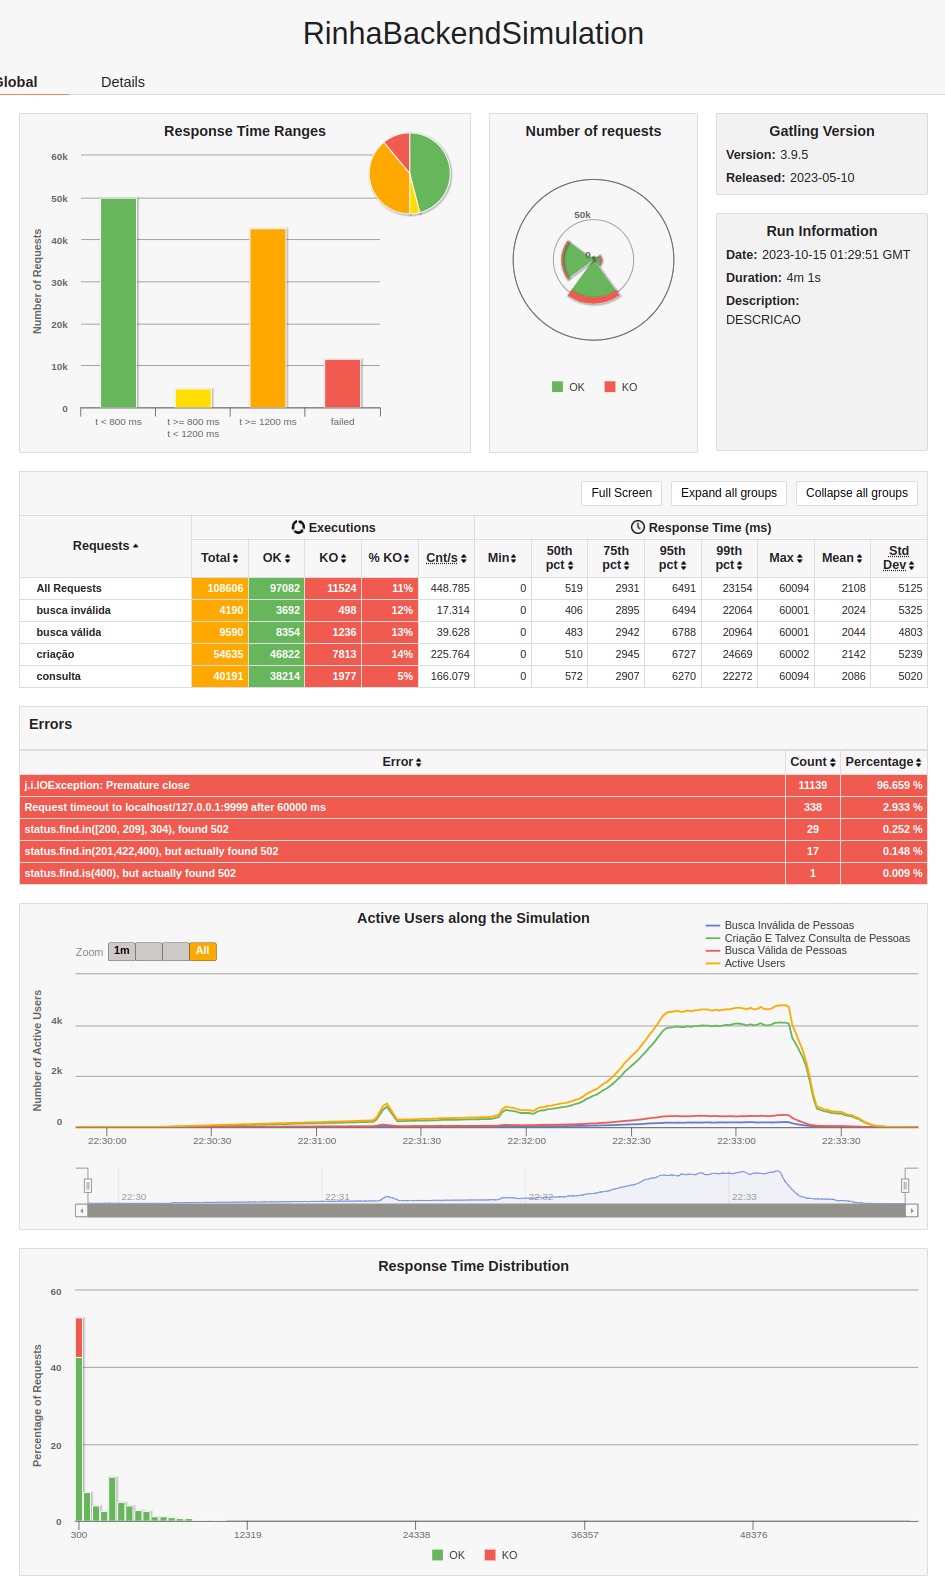
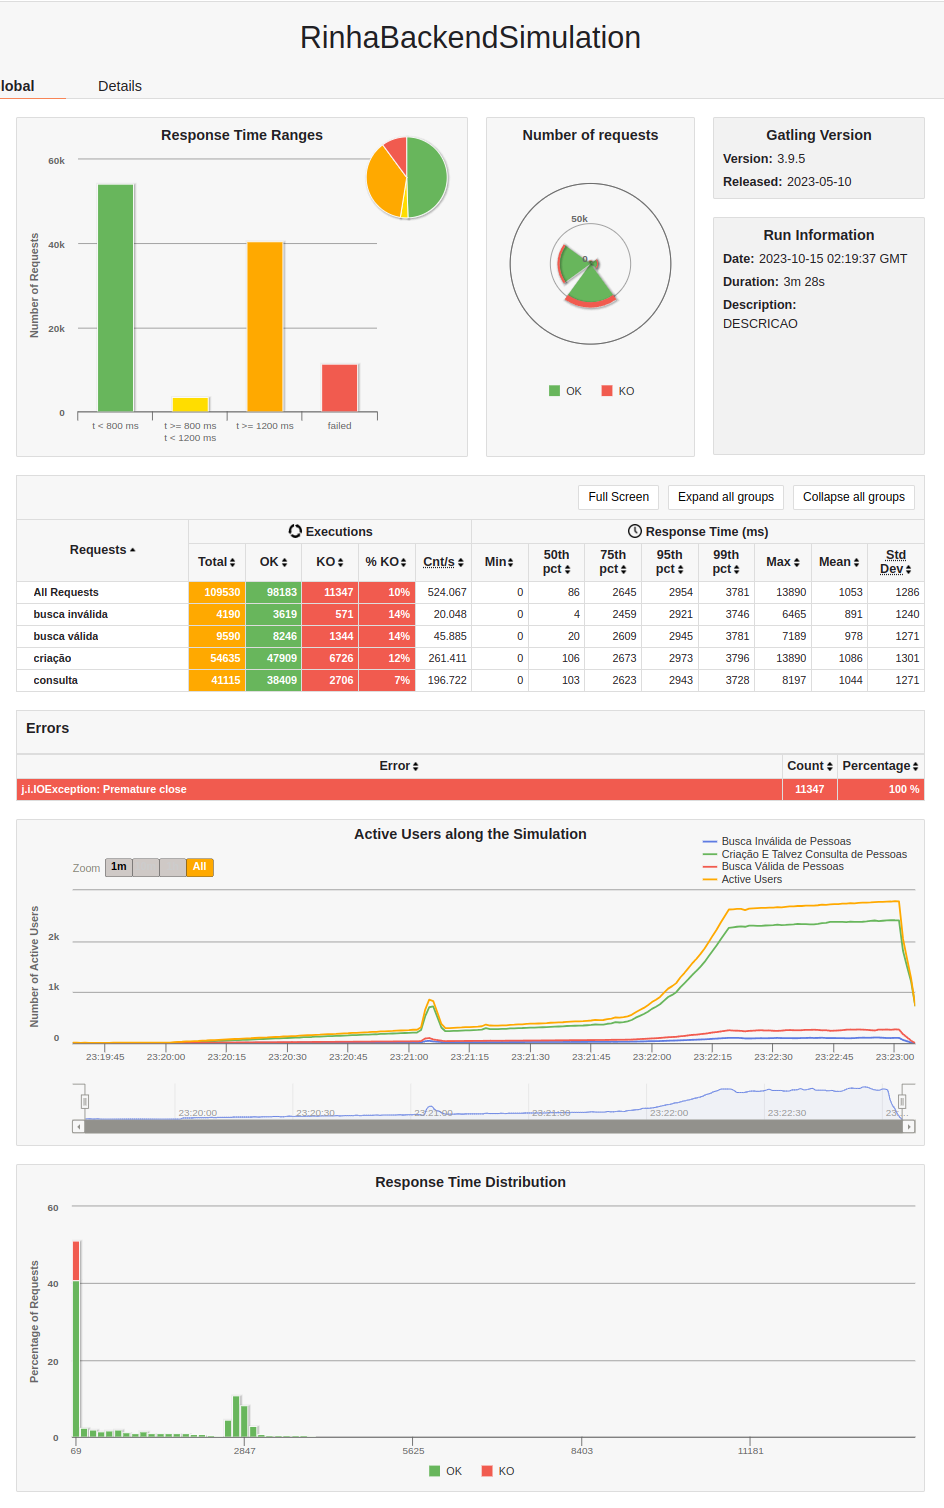
tune nginx and update results

diff --git a/README.md b/README.md
@@ -71,6 +71,8 @@ A contagem de pessoas é: 41257
 
 #### Resultado do gatling navegador
 
+Com o nginx bem tunado, o tempo de resposta é até melhor do que sem ele.
+
 ![resultado gatling navegador part 1](./images/gatling-browser-two-1.png)
 ![resultado gatling navegador part 2](./images/gatling-browser-two-2.png)
 
@@ -79,29 +81,25 @@ A contagem de pessoas é: 41257
 ```
 ================================================================================
 ---- Global Information --------------------------------------------------------
-> request count                                     108606 (OK=97082  KO=11524 )
+> request count                                     109530 (OK=98183  KO=11347 )
 > min response time                                      0 (OK=0      KO=0     )
-> max response time                                  60094 (OK=59740  KO=60094 )
-> mean response time                                  2108 (OK=2135   KO=1880  )
-> std deviation                                       5125 (OK=4057   KO=10433 )
-> response time 50th percentile                        519 (OK=694    KO=0     )
-> response time 75th percentile                       2931 (OK=2980   KO=1     )
-> response time 95th percentile                       6491 (OK=6686   KO=48    )
-> response time 99th percentile                      23154 (OK=18603  KO=60001 )
-> mean requests/sec                                448.785 (OK=401.165 KO=47.62 )
+> max response time                                  13890 (OK=13890  KO=8     )
+> mean response time                                  1053 (OK=1175   KO=0     )
+> std deviation                                       1286 (OK=1304   KO=0     )
+> response time 50th percentile                         86 (OK=412    KO=0     )
+> response time 75th percentile                       2645 (OK=2693   KO=1     )
+> response time 95th percentile                       2954 (OK=2988   KO=1     )
+> response time 99th percentile                       3781 (OK=3793   KO=1     )
+> mean requests/sec                                524.067 (OK=469.775 KO=54.292)
 ---- Response Time Distribution ------------------------------------------------
-> t < 800 ms                                         50006 ( 46%)
-> 800 ms <= t < 1200 ms                               4455 (  4%)
-> t >= 1200 ms                                       42621 ( 39%)
-> failed                                             11524 ( 11%)
+> t < 800 ms                                         54176 ( 49%)
+> 800 ms <= t < 1200 ms                               3493 (  3%)
+> t >= 1200 ms                                       40514 ( 37%)
+> failed                                             11347 ( 10%)
 ---- Errors --------------------------------------------------------------------
-> j.i.IOException: Premature close                                11139 (96.66%)
-> Request timeout to localhost/127.0.0.1:9999 after 60000 ms        338 ( 2.93%)
-> status.find.in([200, 209], 304), found 502                         29 ( 0.25%)
-> status.find.in(201,422,400), but actually found 502                17 ( 0.15%)
-> status.find.is(400), but actually found 502                         1 ( 0.01%)
+> j.i.IOException: Premature close                                11347 (100.0%)
 ================================================================================
-A contagem de pessoas é: 40195
+A contagem de pessoas é: 41115
 ```
 
 #### Recusos do docker durante a parte mais pesada do teste
